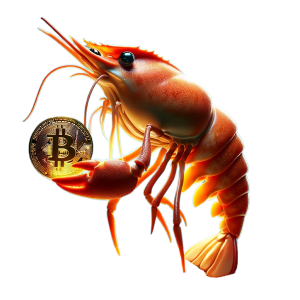
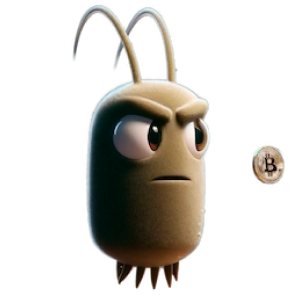
fix(coinReport): enhance the style and add shell

diff --git a/src/app/[lang]/(dashboard)/affiliate/_sections/Dashboard/index.tsx b/src/app/[lang]/(dashboard)/affiliate/_sections/Dashboard/index.tsx
@@ -330,31 +330,32 @@ const AFDashboardTab: FC = () => {
           </ContentStack>
 
           <ContentStack flex={8 / 12} p={0} direction={"row"} flexWrap={{ md: "unset", xs: "wrap" }}>
-            {orderArrayPlan(children?.data?.distribution_of_plans)
-              ?.filter((item) => item.plan_type !== "shell")
-              ?.map((item, index) => (
-                <Stack
-                  key={item.plan_type}
-                  flex={1}
-                  py={3}
-                  px={{ md: 2, xs: 3 }}
-                  alignItems={"center"}
-                  justifyContent={"center"}
-                  bgcolor={{ sm: !(index % 2) ? undefined : "dark.3" }}
-                >
-                  {(plans as any)[item.plan_type!]?.rive && (
-                    <Box sx={{ aspectRatio: 1 }}>
-                      <RiveComp width={80} height={80} src={(plans as any)[item.plan_type!]?.rive} />
-                    </Box>
-                  )}
-                  <Typography mt={1} variant="h4-semi-bold">
-                    {item.count}
-                  </Typography>
-                  <Typography variant="p2-medium" textTransform={"capitalize"} color="grey.light">
-                    {item.plan_type}
-                  </Typography>
-                </Stack>
-              ))}
+            {orderArrayPlan(children?.data?.distribution_of_plans)?.map((item, index) => (
+              <Stack
+                key={item.plan_type}
+                flex={1}
+                py={3}
+                px={{ md: 2, xs: 3 }}
+                alignItems={"center"}
+                justifyContent={"center"}
+                bgcolor={{ sm: !(index % 2) ? "dark.3" : undefined }}
+                sx={{
+                  borderRadius: index === 0 ? "8px 0 0 8px" : "none",
+                }}
+              >
+                {(plans as any)[item.plan_type!]?.rive && (
+                  <Box sx={{ aspectRatio: 1 }}>
+                    <RiveComp width={80} height={80} src={(plans as any)[item.plan_type!]?.rive} />
+                  </Box>
+                )}
+                <Typography mt={1} variant="h4-semi-bold">
+                  {item.count}
+                </Typography>
+                <Typography variant="p2-medium" textTransform={"capitalize"} color="grey.light">
+                  {item.plan_type}
+                </Typography>
+              </Stack>
+            ))}
           </ContentStack>
         </Stack>
 

diff --git a/src/app/[lang]/(dashboard)/coin-reports-new/_sections/FilterModal.tsx b/src/app/[lang]/(dashboard)/coin-reports-new/_sections/FilterModal.tsx
@@ -1,6 +1,6 @@
 import { AutoComplete } from "@/components/AutoComplete";
 import CustomDialog from "@/components/CustomDialog";
-import RiveComp from "@/components/RiveComp";
+import Image from "@/components/Image";
 import { Icon } from "@/components/icons";
 import { useTranslate } from "@/locales";
 import { toTitleCase } from "@/utils/change-case";
@@ -54,7 +54,7 @@ const FilterValue = ({
     borderRadius={0.75}
     border="1.5px solid"
     borderColor="dark.3"
-    px={0.5}
+    p={0.5}
   >
     {children}
     <Typography sx={sx} variant="p2-medium">
@@ -81,16 +81,16 @@ export const FilterModal = ({ onClose, onSubmit, filters }: FilterModalProps) =>
   const { data: signalsData } = useCoinReportServiceCoinReportSignalsQuery();
 
   const categoryOptions = useMemo(
-    () => categoriesData?.data?.map((item) => ({ label: item.slug, value: item.slug })) || [],
+    () => categoriesData?.data?.map((item) => ({ label: toTitleCase(item.slug as string), value: item.slug })) || [],
     [categoriesData]
   );
 
   const signalOptions = useMemo(
     () =>
       signalsData?.data?.map((item) => ({
-        label: item.signal,
+        label: toTitleCase(item.signal as string),
         value: item.signal,
-        color: signalColor[item.signal as keyof typeof signalColor],
+        color: signalColor[item.signal as keyof typeof signalColor] ?? "white",
       })) || [],
     [signalsData]
   );
@@ -172,6 +172,14 @@ export const FilterModal = ({ onClose, onSubmit, filters }: FilterModalProps) =>
             onChange={(val) => setPackages(val)}
             value={packages}
             options={packageOptions}
+            renderOption={(props, option) => (
+              <MenuItem {...props} key={option.value} value={option.value}>
+                <Stack direction="row" spacing={2} alignItems="center">
+                  <Image src={option.img} alt={option.label} style={{ width: "24px", height: "24px" }} />
+                  <Typography variant="p2-medium">{option.label}</Typography>
+                </Stack>
+              </MenuItem>
+            )}
             placeholder={t("coinReportTable.selectPackage")}
             title={t("coinReportTable.package")}
             renderValue={(packageVal) => (
@@ -180,7 +188,7 @@ export const FilterModal = ({ onClose, onSubmit, filters }: FilterModalProps) =>
                 label={packageVal.label}
                 onRemove={() => setPackages((prev) => prev.filter((item) => item.value !== packageVal.value))}
               >
-                <RiveComp width={24} height={24} src={packageVal.img} />
+                <Image width={24} height={24} src={packageVal.img} />
               </FilterValue>
             )}
           />

diff --git a/src/app/[lang]/(dashboard)/coin-reports-new/_sections/table/Header.tsx b/src/app/[lang]/(dashboard)/coin-reports-new/_sections/table/Header.tsx
@@ -83,7 +83,7 @@ export const Header = ({
             }}
             onClick={onFilterClick}
           >
-            <Icon name="Filter" color="grey.light" />
+            <Icon name="Filter" />
           </IconButton>
         )}
       </Box>
@@ -91,7 +91,7 @@ export const Header = ({
       <Stack direction={{ xs: "column", md: "row-reverse" }} width={{ xs: "100%", md: "unset" }} spacing={2}>
         {!isMobile && (
           <Button
-            variant="outlined"
+            color="info"
             startIcon={<Icon name="Filter" />}
             sx={{ [`& .${buttonClasses.startIcon}`]: { mr: 2 } }}
             onClick={onFilterClick}
@@ -103,7 +103,13 @@ export const Header = ({
         <TextField
           placeholder="Search"
           size="small"
-          InputProps={{ startAdornment: <Icon name="Search" /> }}
+          InputProps={{
+            startAdornment: (
+              <Box sx={{ path: { stroke: (theme) => theme.palette.grey.dark } }}>
+                <Icon name="Search" />
+              </Box>
+            ),
+          }}
           fullWidth
           onChange={(event) => setSearchValue(event.target.value)}
           sx={{
@@ -148,7 +154,9 @@ export const Header = ({
                       {time.label}
                     </Typography>
                   </Box>
-                  {index !== timeFrameOptions?.length - 1 && <Box width={4} height={4} bgcolor="dark.3" />}
+                  {index !== timeFrameOptions?.length - 1 && (
+                    <Box sx={{ width: "4px", height: "4px", borderRadius: "50%", bgcolor: "grey.light" }} />
+                  )}
                 </Fragment>
               ))}
             </Box>

diff --git a/src/app/[lang]/(dashboard)/coin-reports-new/_sections/consts.ts b/src/app/[lang]/(dashboard)/coin-reports-new/_sections/consts.ts
@@ -43,5 +43,5 @@ const planKeys = Object.keys(plans) as Array<keyof typeof plans>;
 export const packageOptions = planKeys.map((plan) => ({
   label: plan,
   value: plan,
-  img: plans[plan].rive,
+  img: plans[plan].image,
 }));

diff --git a/src/configs/plans.ts b/src/configs/plans.ts
@@ -1,6 +1,6 @@
 export const plans = {
   plankton: { order: 1, rive: "/assets/rive/plankton.riv", image: "/assets/packages/plankton.png" },
-  // shell: { order: 2, rive: "/assets/rive/shell.riv",  image: "/assets/packages/shell.png", },
+  shell: { order: 2, rive: "/assets/rive/shell.riv", image: "/assets/packages/shell.png" },
   shrimp: { order: 2, rive: "/assets/rive/shrimp.riv", image: "/assets/packages/shrimp.png" },
   fish: { order: 3, rive: "/assets/rive/fish.riv", image: "/assets/packages/fish.png" },
   shark: { order: 4, rive: "/assets/rive/shark.riv", image: "/assets/packages/shark.png" },